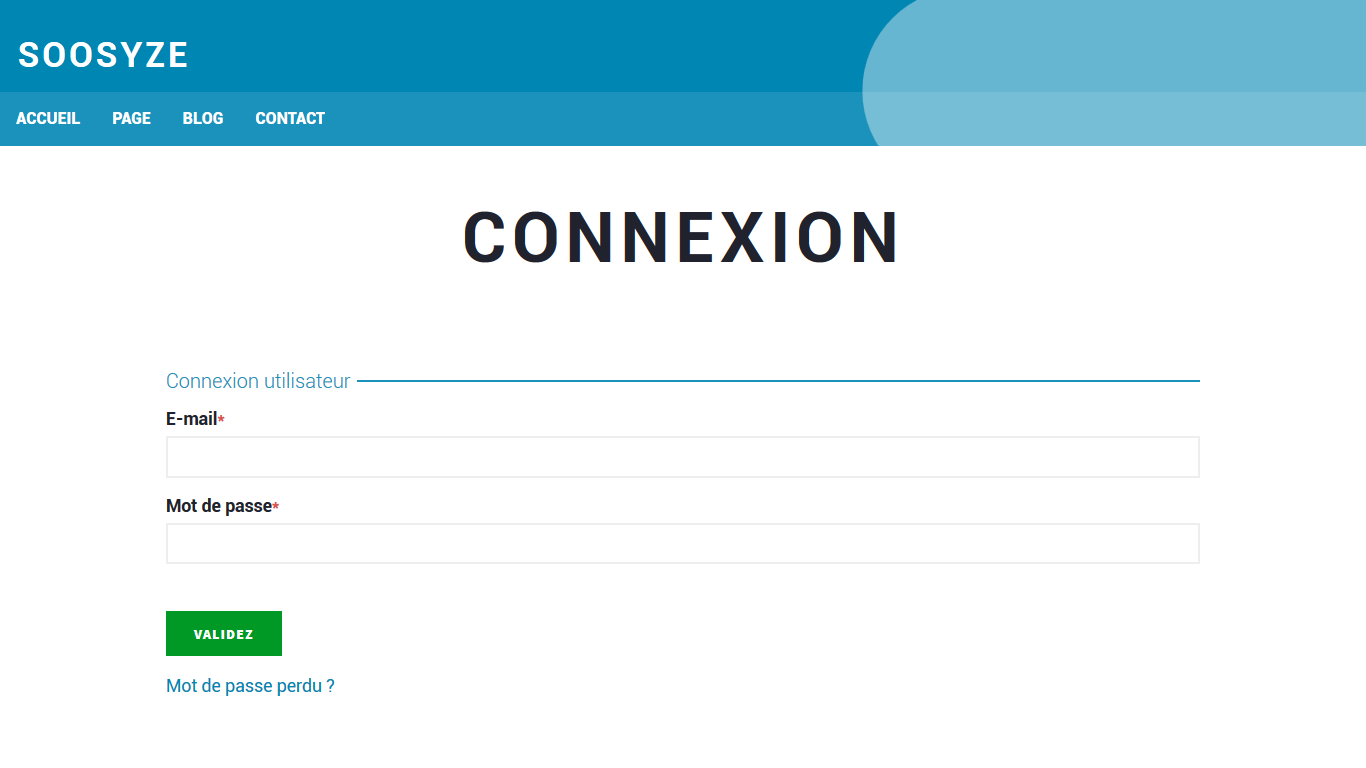
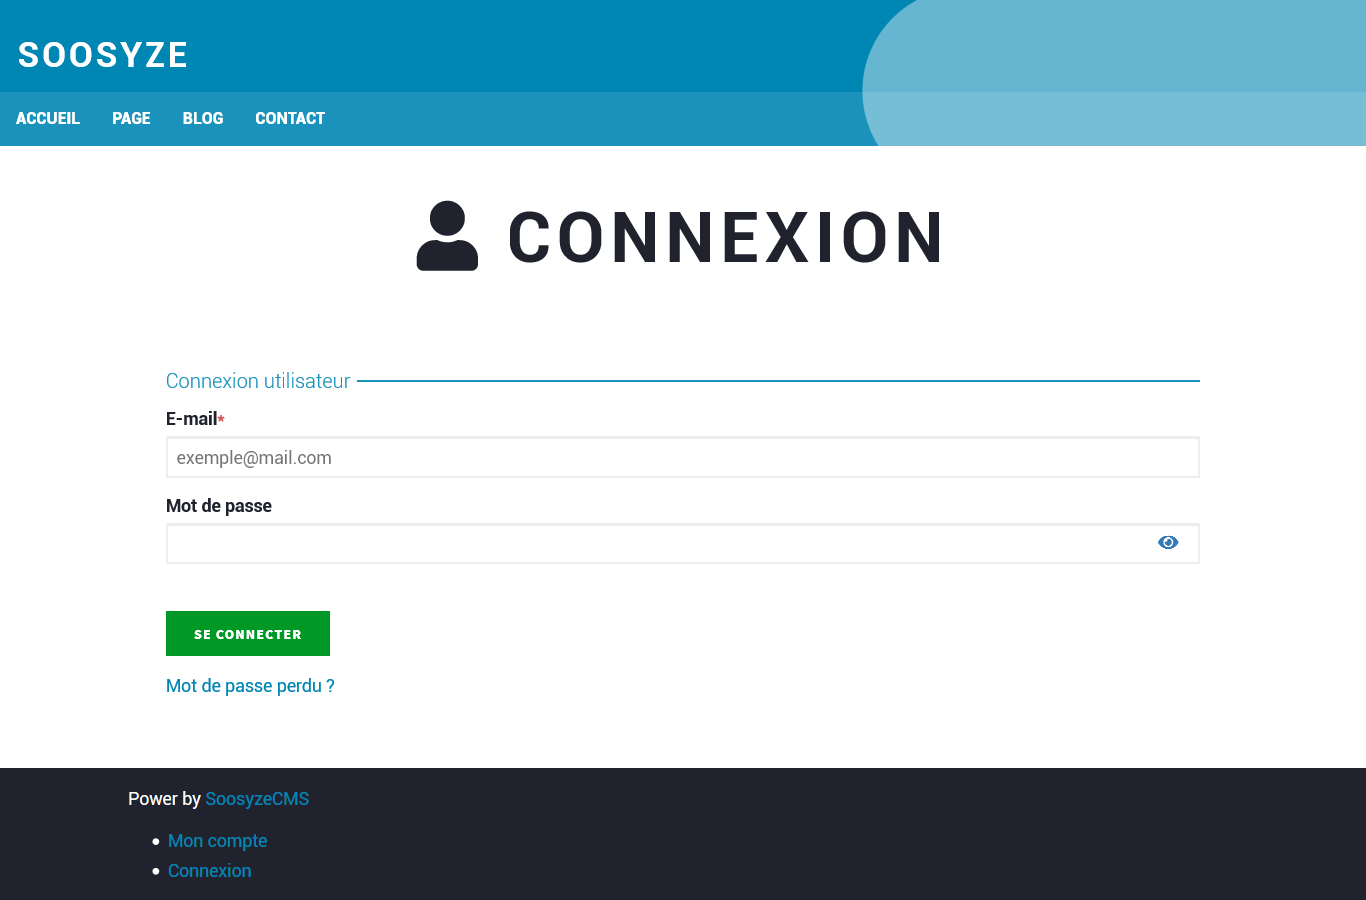
Mise à jour de la documentation utilisateur pour la version alpha6.1 du CMS.

diff --git a/user/02_configurer.md b/user/02_configurer.md
@@ -14,7 +14,7 @@ Pour accéder au formulaire de connexion, cliquez sur le lien **_Connexion_** da
 
 ![Screenshot de la page de connexion de SoosyzeCMS](/assets/user/soosyze-user_login-desktop.png)
 
-Saisissez votre e-mail et le mot de passe que vous avez choisi lors de l’installation dans les champs correspondants, puis cliquez sur **_Valider_**. 
+Saisissez votre e-mail et le mot de passe que vous avez choisi lors de l’installation dans les champs correspondants, puis cliquez sur **_Se connecter_**. 
 
 * Si votre connexion est acceptée, vous serez redirigé vers la page de votre compte utilisateur,
 * Si votre connexion échoue, un message vous en avertira.
@@ -25,7 +25,7 @@ Saisissez votre e-mail et le mot de passe que vous avez choisi lors de l’insta
 
 ### Configuer votre compte utilisateur
 
-Une fois connecté, cliquez sur l’onglet **_Utilisateur_** de votre menu d’administration, il s’agit de la page d’édition du compte utilisateur.
+Une fois connecté, cliquez sur l’onglet **_Éditer_**, il s’agit de la page d’édition du compte utilisateur.
 
 `GET ?user/1/edit`
 
@@ -46,6 +46,10 @@ Vous recevrez un e-mail vous donnant la marche à suivre pour changer votre mot 
 ## Configurer votre site
 
 Pour vous rendre au panneau de configuration, cliquez sur le lien **_Configuration_** de votre menu d’administration.
+Chaque onglet correspond à un type de configuration. Par défaut le CMS possède les onglets
+
+* **_Système_** pour les configurations global,
+* **_Utilisateur_** pour les configurations d'inscriptions.
 
 `GET ?admin/config`
 
@@ -53,16 +57,17 @@ Pour vous rendre au panneau de configuration, cliquez sur le lien **_Configurati
 
 1. **E-mail du site** : mail utilisé pour la configuration générale, pour vos contacts (*pour la récupération de votre mot de passe...*),
 2. **Mettre le site en maintenance** : empêche les utilisateurs non connectés d’accéder à votre site,
-3. **Thème du site** : liste d’affichages disponibles pour votre site,
-4. **Thème d’administration du site** : liste d’affichages disponibles pour l’administration votre site,
-5. **Logo** : Champ de téléchargement pour votre logo,
-6. **Page d’accueil par defaut** : le lien du contenu affiché en page d’accueil de votre site,
-7. **Page 403** par défaut (*accès refusé*) : lien du contenu affiché si un utilisateur accède à une page qui lui est interdite,
-8. **Page 404** par défaut (*page non trouvée*) : lien du contenu affiché si un utilisateur accède à une page qui n’existe pas,
-9. **Titre du site** : Le titre principal de votre site apparait aussi dans le titre de la fenêtre de votre navigateur,
-10. **Description** : vous aide à votre référencement et s’affiche dans les moteurs de recherche,
-11. **Mots-clés** : vous aide au référencement de votre site dans les moteurs de recherche,
-12. **Favicon** : Champ de téléchargement pour votre favicon (*image à gauche du titre de la fenêtre de votre navigateur*).
+3. **Rendre les URL propres** : simplifie les URL du site en masquant le paramètre `?q=`
+4. **Thème du site** : liste d’affichages disponibles pour votre site,
+5. **Thème d’administration du site** : liste d’affichages disponibles pour l’administration votre site,
+6. **Logo** : Champ de téléchargement pour votre logo,
+7. **Page d’accueil par defaut** : le lien du contenu affiché en page d’accueil de votre site,
+8. **Page 403** par défaut (*accès refusé*) : lien du contenu affiché si un utilisateur accède à une page qui lui est interdite,
+9. **Page 404** par défaut (*page non trouvée*) : lien du contenu affiché si un utilisateur accède à une page qui n’existe pas,
+10. **Titre du site** : Le titre principal de votre site apparait aussi dans le titre de la fenêtre de votre navigateur,
+11. **Description** : vous aide à votre référencement et s’affiche dans les moteurs de recherche,
+12. **Mots-clés** : vous aide au référencement de votre site dans les moteurs de recherche,
+13. **Favicon** : Champ de téléchargement pour votre favicon (*image à gauche du titre de la fenêtre de votre navigateur*).
 
 À la fin de vos modifications, cliquez sur **_Enregistrer_** en base du formulaire pour les valider.
 
@@ -80,7 +85,7 @@ Exemple : le module News utilise le module Node, donc Node **est requis** par Ne
 
 ### Installer un module
 
-1. Téléchargez parmi [les modules contributeurs](https://github.com/soosyze-extension) celui que vous souhaitez installer,
+1. Téléchargez parmi [les modules contributeurs](https://soosyze.com/download/modules) celui que vous souhaitez installer,
 2. Connectez-vous à votre serveur et rendez-vous dans le répertoire contenant SoosyzeCMS,
 3. Rendez-vous dans le repértoire **app/modules** et déposez le module téléchargé, décompressé de son archive,
 4. Allez sur la page de gestion de vos modules sur votre site,

diff --git a/user/03_gérer.md b/user/03_gérer.md
@@ -15,7 +15,7 @@ Si vous comprenez ça, vous avez compris plus de 50% du fonctionnement d’un CM
 
 Rendez-vous sur la page de gestion de vos contenus en cliquant sur le lien **_Contenu_** dans le menu administrateur. Cette page visualise tous les contenus de votre site, leurs dates de création, de modifiaction et leurs états de publication.
 
-**Pour info !** Vos contenus sont gérés par le module **Node** du SoosyzeCMS, il permet **créer des types de contenus.** Les types de contenus permettent de créer et mettre en forme vos données, par exemple une **page** ou un **article**.
+**Pour info !** Vos contenus sont gérés par le module **Node** de SoosyzeCMS, il permet **créer des types de contenus.** Les types de contenus permettent de créer et mettre en forme vos données, par exemple une **page** ou un **article**.
 
 `GET ?admin/content`
 
@@ -84,3 +84,59 @@ Vous serez redirigé vers le formulaire d’édition du lien. Modifiez les champ
 ### Supprimer un lien
 
 Depuis la page de gestion de vos menus, cliquez sur **_Supprimer_** dans la colonne actions du lien souhaité.
+
+## Gérer les utilisateurs
+
+Rendez-vous sur la page de gestion des comptes utilisateurs en cliquant sur le lien **_Utilisateur_** dans le menu d’administrateur. 
+Depuis cette interface, vous pouvez voir tous les utilisateurs.
+
+`GET ?admin/user`
+
+![Screenshot de la page de gestion des utilisateurs de SoosyzeCMS](/assets/user/soosyze-user_management-desktop.png)
+
+
+### Créer un utilisateur
+
+Cliquez sur lien **_Ajouter un utilisateur_** en haut à gauche de la page de gestion des comptes utilisateurs.
+
+Vous serez redirigé vers le formulaire de création d'utilisateur. Remplissez les champs correspondants et cliquez sur **_Enregistrer_**.
+
+`GET ?user`
+
+![Screenshot de la page de création d'un utilisateur de SoosyzeCMS](/assets/user/soosyze-user_create-desktop.png)
+
+### Modifier un utilisateur
+
+Depuis la page de gestion des comptes utilisateurs, cliquez sur **_Editer_** dans la colonne *Actions* de l'utilisateur souhaité.
+
+Vous serez redirigé vers le formulaire d'édition de l'utilisateur. Modifiez les champs souhaités et cliquez sur **_Enregistrer_**.
+
+`GET ?user/:id/edit`
+
+### Supprimer un utilisateur
+
+Depuis la page de gestion des comptes utilisateurs, cliquez sur **_Supprimer_** dans la colonne actions du lien souhaité.
+
+Vous serez redirigé vers le formulaire de supression de compte utilisateur. Cliquez sur **_Supprimer le compte_**.
+
+`GET ?user/:id/delete`
+
+## Gérer les rôles
+
+Un utilisateur peut posséder plusieurs rôles utilisateurs.
+Par défaut il possède le rôle "Utilisateur connectée" (l'équivalent de membre du site). Les rôles fonctionnent sur le principe de CRUD.
+Depuis la page de gestion des comptes utilisateurs, cliquez sur **_Administrer les rôles_**. Vous aurez les interfaces de création, modification et suppression de rôles.
+
+![Screenshot de la page de création des rôles de SoosyzeCMS](/assets/user/soosyze-user_roles-desktop.png)
+
+`GET ?admin/user/role`
+
+## Gérer les permissions
+
+Depuis la page de gestion des comptes utilisateurs, cliquez sur **_Administrer les permissions_**.
+Les permissions déterminent quel(s) rôle(s) à les droits de voir, créer, modifier, supprimer... selon les différentes fonctionnalités du site.
+
+Par exemple, le module **Contact** propose la permission _Utiliser le formulaire de contact général_.
+Cette permission autorise par défaut tous les rôles à voir le formulaire de contact et à le valider.
+
+![Screenshot de la page de gestion des permissions de SoosyzeCMS](/assets/user/soosyze-user_permission-desktop.png)

diff --git a/user/01_installer.md b/user/01_installer.md
@@ -2,7 +2,7 @@
 
 Si vous avez suivi le chapitre précédent, vous savez qu’il existe deux façons d’héberger votre site web. Cette distinction se fera aussi pour l’installation du CMS.
 
-Dans un premier temps, [téléchargez l’archive de SoosyzeCMS sur votre ordinateur](https://github.com/soosyze/soosyze/releases/download/1.0.0-alpha4.1/soosyze.zip).
+Dans un premier temps, [téléchargez l’archive de la dernière version SoosyzeCMS sur votre ordinateur](https://github.com/soosyze/soosyze/releases/latest/download/soosyze.zip).
 
 Cette archive contient les fichiers source de l’application. Vous devez donc déposer ces fichiers en local ou en ligne. Une fois les fichiers source au bon endroit, vous allez enfin pouvoir installer le CMS.
 
@@ -11,15 +11,15 @@ Cette archive contient les fichiers source de l’application. Vous devez donc d
 Dans le chapitre précédent, nous avons expliqué comment installer WampServer 3 (*WAMP*) pour faire fonctionner votre site en local. Ici, nous verrons où déposer Soosyze dans WAMP pour le faire fonctionner.
 
 1. Lancez WAMP,
-2. Rendez-vous à la racine du disque sur lequel vous avez installé WAMP, généralement C:\ ou D:\ ,
-3. Allez dans le répertoire \wamp (*ou \wamp64*),
-4. Et enfin dans le dossier \www,
+2. Rendez-vous à la racine du disque sur lequel vous avez installé WAMP, généralement `C:\` (*ou `D:\`*) ,
+3. Allez dans le répertoire `\wamp` (*ou `\wamp64`*),
+4. Et enfin dans le dossier `\www`,
 5. Copiez/Collez l’archive de SoosyzeCMS dans ce dossier,
 6. Décompressez l’archive.
 
-Le dossier \www est le point d’entrée de vos applications web sous WAMP, tous les fichiers sources doivent être dans ce répértoire.
+Le dossier `\www` est le point d’entrée de vos applications web sous WAMP, tous les fichiers sources doivent être dans ce répértoire.
 
-Par défaut, les fichiers sources de SoosyzeCMS sont contenus dans le répértoire \Soosyze : à vous d’organiser vos projets comme bon vous semble.
+Par défaut, les fichiers sources de SoosyzeCMS sont contenus dans le répértoire `\soosyze` : à vous d’organiser vos projets comme bon vous semble.
 
 [Vous voilà prêts à installer SoosyzeCMS](#installer-le-cms).
 
@@ -36,7 +36,7 @@ Vous devez au préalable installer un client FTP.
 
 Il en existe plusiseurs, mais nous nous focaliserons sur le logiciel FileZilla. C’est un logiciel très répandu et disponible pour Windows, Mac OS et GNU/Linux.
 
-1. Rendez-vous sur le [site de FileZilla](https://dillinger.io/https://filezilla-project.org/),
+1. Rendez-vous sur le [site de FileZilla](https://filezilla-project.org),
 2. Téléchargez FileZilla Client,
 3. Installez-le et Lancez le logiciel.
 

diff --git a/user/00_héberger.md b/user/00_héberger.md
@@ -14,7 +14,7 @@ Pour commencer, vous devez choisir entre :
 
 Quel que soit le système d’exploitation (*Windows, Mac, Linux...*) que vous utilisez, vous devrez installer un **serveur HTTP** (*serveur web*) et **PHP** (*langage de développement utilisé pour Soosyze*).
 
-Pour information, Soosyze CMS supporte **Apache 2.2+** et **Nginx 1.0+**, qui sont deux des serveurs web les plus utilisés.
+Pour information, Soosyze CMS supporte **Apache 2.2+** et **Nginx 1.0+**, qui sont deux des serveurs web les plus utilisés ([utilisés dans plus de 80% des infrastructures d'hébergement](https://w3techs.com/technologies/overview/web_server/all)).
 
 ### Installation de votre serveur : Wamp pour Windows
 
